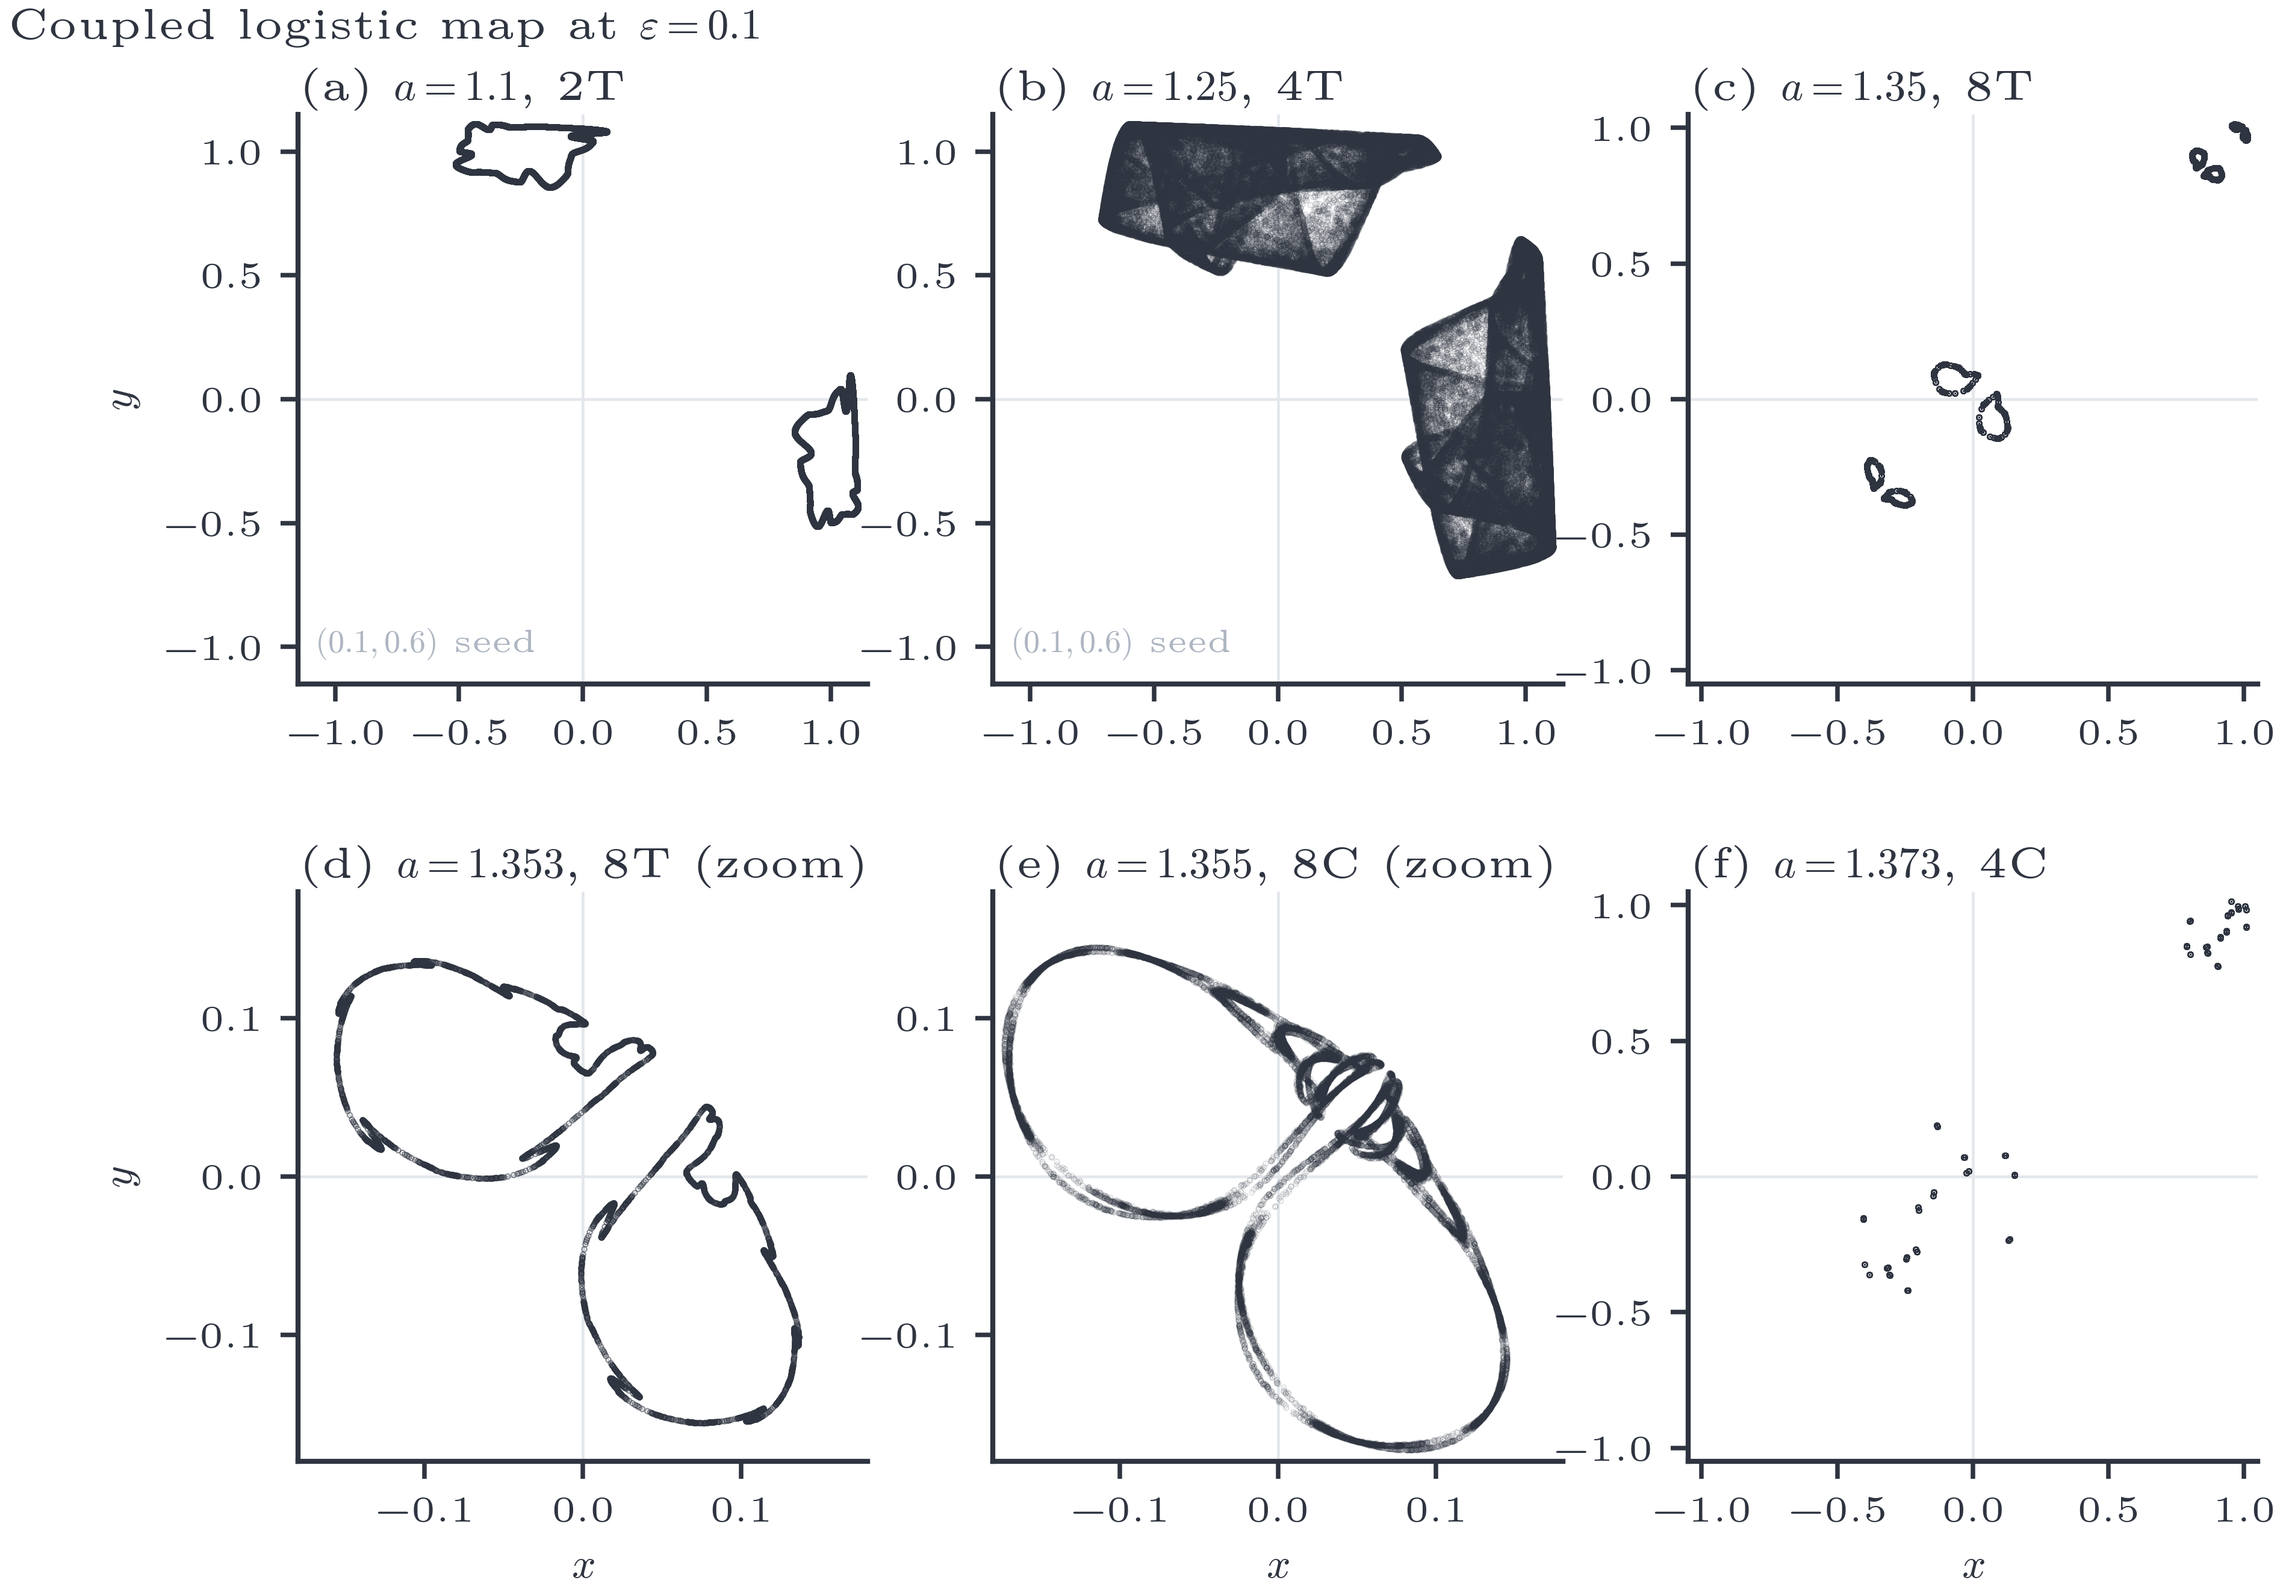
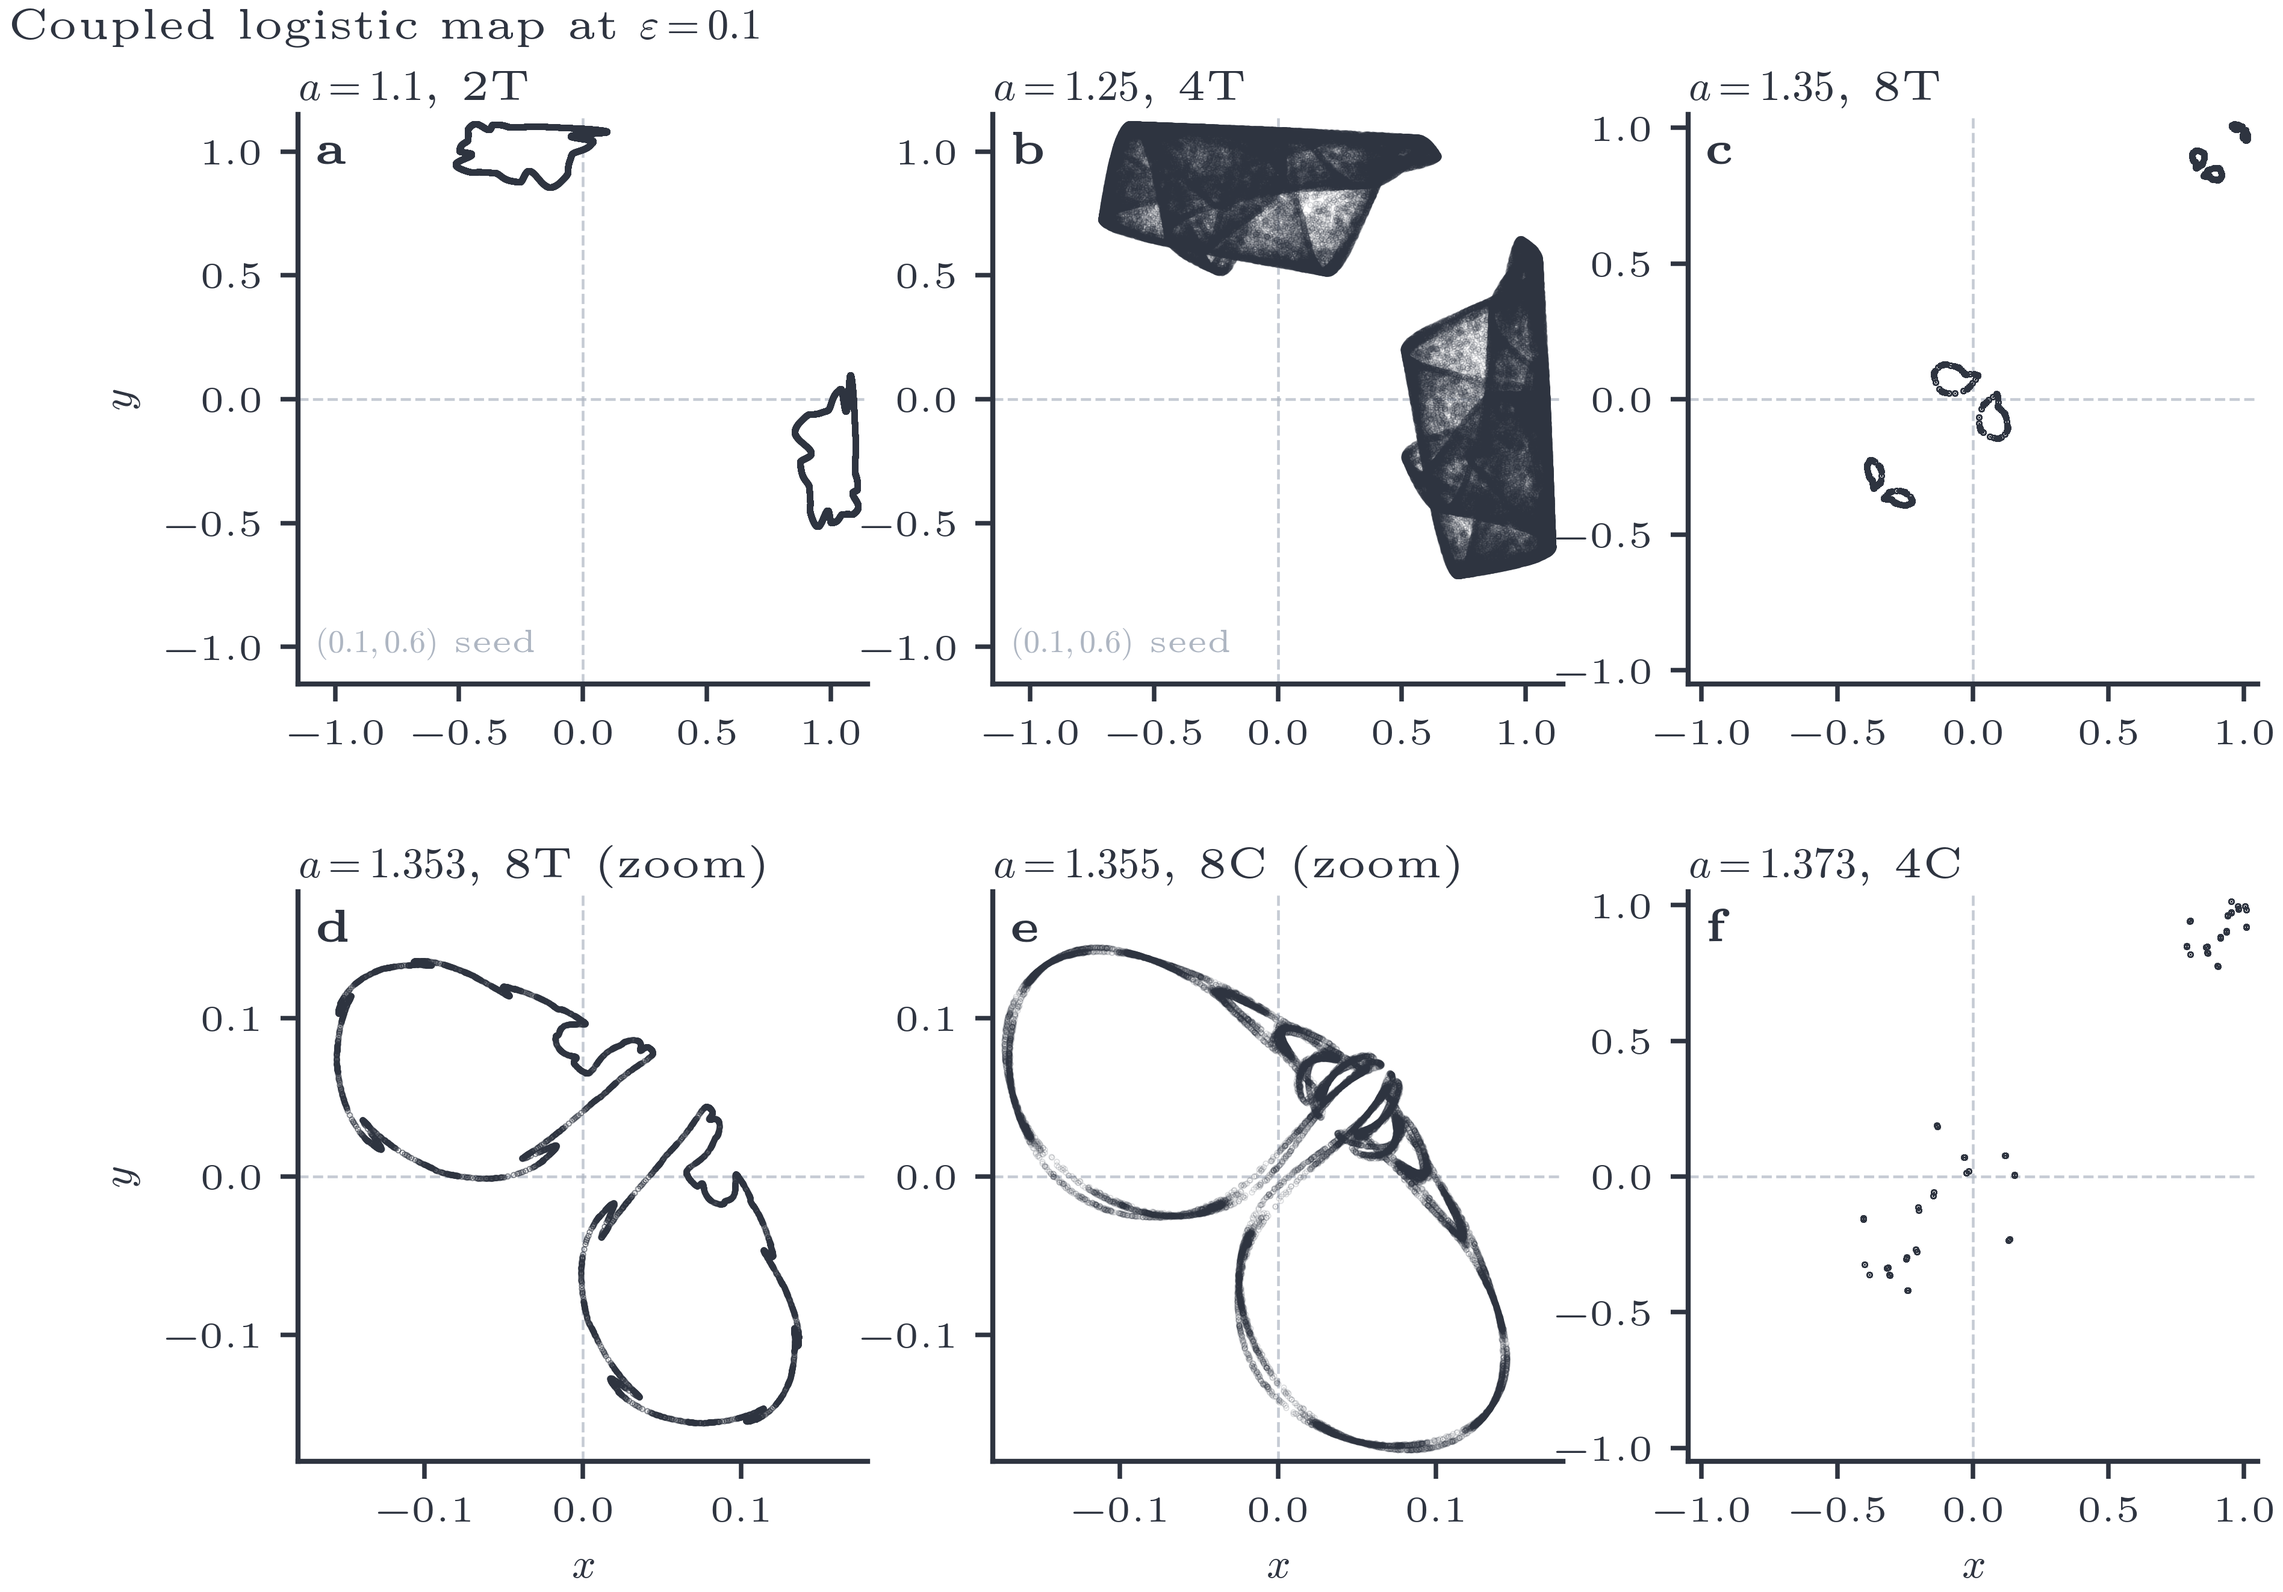
style(sec03): apply figure grammar — panel labels, field colorbars, palette basins
coupled_logistic.py: bold (a)/(b) panel labels; phase_diagram gets labelled
field colorbars + legible on-field slice labels (annotate_on_field); basins use
palette orbit colours (A=blue, B=vermilion, sync=grey) with the shared legend —
NO colorbar (categorical data); removed speculative unused imports. Presentation only.

diff --git a/src/dynachaos/maps/coupled_logistic.py b/src/dynachaos/maps/coupled_logistic.py
@@ -426,8 +426,11 @@ def plot_phase_diagram(data):
         CMAP_DIVERGING,
         CMAP_SEQUENTIAL,
         COLORS,
+        add_field_colorbar,
+        annotate_on_field,
         apply_axes_polish,
         figure_spec,
+        panel_label,
         setup,
     )
 
@@ -458,11 +461,11 @@ def plot_phase_diagram(data):
         shading="auto",
     )
     axes[0].axhline(0.1, color=COLORS["red"], linestyle=(0, (4, 2)), lw=0.8)
-    axes[0].text(
-        0.98,
-        0.04,
+    annotate_on_field(
+        axes[0],
+        A[-1],
+        0.1 + 0.025 * (D[-1] - D[0]),
         r"$\varepsilon = 0.1$ gallery slice",
-        transform=axes[0].transAxes,
         ha="right",
         va="bottom",
         color=COLORS["red"],
@@ -470,11 +473,10 @@ def plot_phase_diagram(data):
     )
     axes[0].set_xlabel(r"$a$")
     axes[0].set_ylabel(r"$\varepsilon$")
-    axes[0].set_title(r"(a) Symmetry breaking: $\langle |x-y| \rangle$", loc="left")
+    axes[0].set_title(r"Symmetry breaking: $\langle |x-y| \rangle$", loc="left")
+    panel_label(axes[0], "(a)")
     apply_axes_polish(axes[0], kind="double", title_loc="left", grid=False)
-    cb0 = fig.colorbar(im0, ax=axes[0], pad=0.02, fraction=0.046)
-    cb0.set_label(r"$\langle |x-y| \rangle$")
-    cb0.ax.tick_params(labelsize=spec.tick_size)
+    add_field_colorbar(fig, im0, axes[0], label=r"$\langle |x-y| \rangle$", pad=0.02)
 
     lyap_cmap = plt.get_cmap(CMAP_DIVERGING).copy()
     lyap_cmap.set_bad(COLORS["offwhite"])
@@ -492,22 +494,21 @@ def plot_phase_diagram(data):
         shading="auto",
     )
     axes[1].axhline(0.1, color=COLORS["red"], linestyle=(0, (4, 2)), lw=0.8)
-    axes[1].text(
-        0.98,
-        0.04,
+    annotate_on_field(
+        axes[1],
+        A[-1],
+        0.1 + 0.025 * (D[-1] - D[0]),
         r"$\varepsilon = 0.1$ gallery slice",
-        transform=axes[1].transAxes,
         ha="right",
         va="bottom",
         color=COLORS["red"],
         fontsize=spec.legend_size,
     )
     axes[1].set_xlabel(r"$a$")
-    axes[1].set_title(r"(b) Chaos onset: $\lambda_1$ (finite-time)", loc="left")
+    axes[1].set_title(r"Chaos onset: $\lambda_1$ (finite-time)", loc="left")
+    panel_label(axes[1], "(b)")
     apply_axes_polish(axes[1], kind="double", title_loc="left", grid=False)
-    cb1 = fig.colorbar(im1, ax=axes[1], pad=0.02, fraction=0.046)
-    cb1.set_label(r"$\lambda_1$")
-    cb1.ax.tick_params(labelsize=spec.tick_size)
+    add_field_colorbar(fig, im1, axes[1], label=r"$\lambda_1$", pad=0.02)
 
     fig.savefig(PHASE_PNG, dpi=600, bbox_inches="tight")
     plt.close(fig)
@@ -518,7 +519,14 @@ def plot_attractors(data):
     """Plot representative attractor portraits."""
     import matplotlib.pyplot as plt
 
-    from dynachaos.utils.style import COLORS, apply_axes_polish, figure_spec, setup
+    from dynachaos.utils.style import (
+        COLORS,
+        apply_axes_polish,
+        figure_spec,
+        panel_label,
+        reference_line,
+        setup,
+    )
 
     setup()
 
@@ -548,13 +556,14 @@ def plot_attractors(data):
         y = data[f"y_{idx}"]
         point_size = 0.06 if "zoom" not in labels[idx] else 0.045
         ax.scatter(x, y, s=point_size, c=COLORS["black"], alpha=0.16, rasterized=True)
-        ax.axhline(0.0, color=COLORS["grid"], lw=0.55, zorder=0)
-        ax.axvline(0.0, color=COLORS["grid"], lw=0.55, zorder=0)
+        reference_line(ax, 0.0, axis="y", lw=0.55, zorder=0)
+        reference_line(ax, 0.0, axis="x", lw=0.55, zorder=0)
         ax.set_title(
-            f"({panel_labels[idx]}) $a = {float(A):.4g}$, {labels[idx]}",
+            f"$a = {float(A):.4g}$, {labels[idx]}",
             loc="left",
             usetex=False,
         )
+        panel_label(ax, panel_labels[idx], loc="upper left")
         if idx >= 3:
             ax.set_xlabel("$x$")
         else:
@@ -590,7 +599,13 @@ def plot_basins(data):
     from matplotlib.colors import BoundaryNorm, ListedColormap
     from matplotlib.patches import Patch
 
-    from dynachaos.utils.style import COLORS, apply_axes_polish, figure_spec, setup
+    from dynachaos.utils.style import (
+        COLORS,
+        apply_axes_polish,
+        figure_spec,
+        panel_label,
+        setup,
+    )
 
     setup()
 
@@ -626,7 +641,8 @@ def plot_basins(data):
     ax1.plot(x, x, color=COLORS["black"], linestyle="--", lw=0.45, alpha=0.45)
     ax1.set_xlabel("$x_0$")
     ax1.set_ylabel("$y_0$")
-    ax1.set_title(f"(a) Full basin at $a = {A_val:.5f}$", loc="left")
+    ax1.set_title(f"Full basin at $a = {A_val:.5f}$", loc="left")
+    panel_label(ax1, "(a)")
     apply_axes_polish(ax1, kind="double", title_loc="left", grid=False, equal=True)
 
     zx0, zx1, zy0, zy1 = -0.16, 0.04, -0.11, 0.09
@@ -661,7 +677,8 @@ def plot_basins(data):
     ax2.set_ylim(zy0, zy1)
     ax2.set_xlabel("$x_0$")
     ax2.set_ylabel("$y_0$")
-    ax2.set_title("(b) Zoom near the invariant diagonal", loc="left")
+    ax2.set_title("Zoom near the invariant diagonal", loc="left")
+    panel_label(ax2, "(b)")
     apply_axes_polish(ax2, kind="double", title_loc="left", grid=False, equal=True)
 
     legend_elements = [
